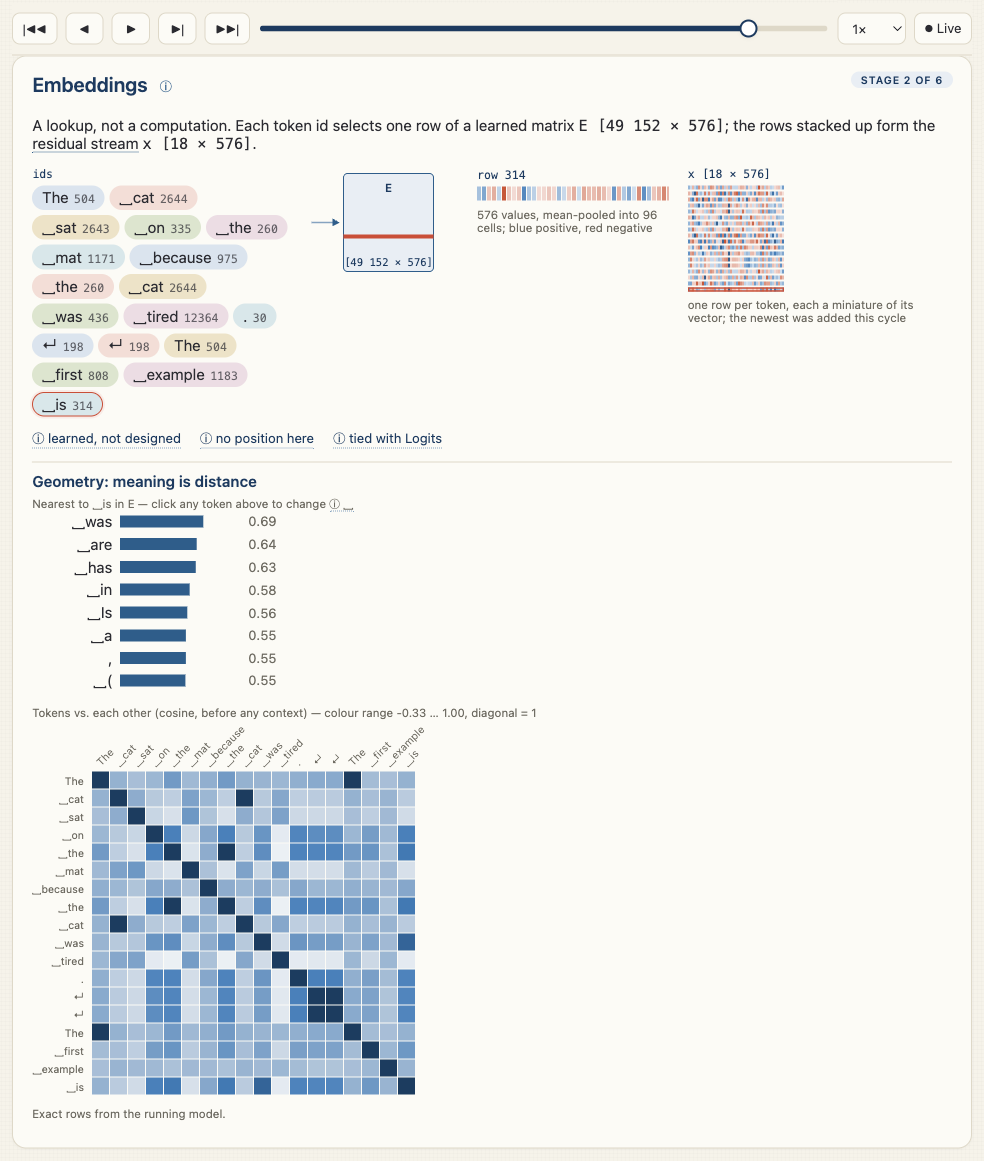
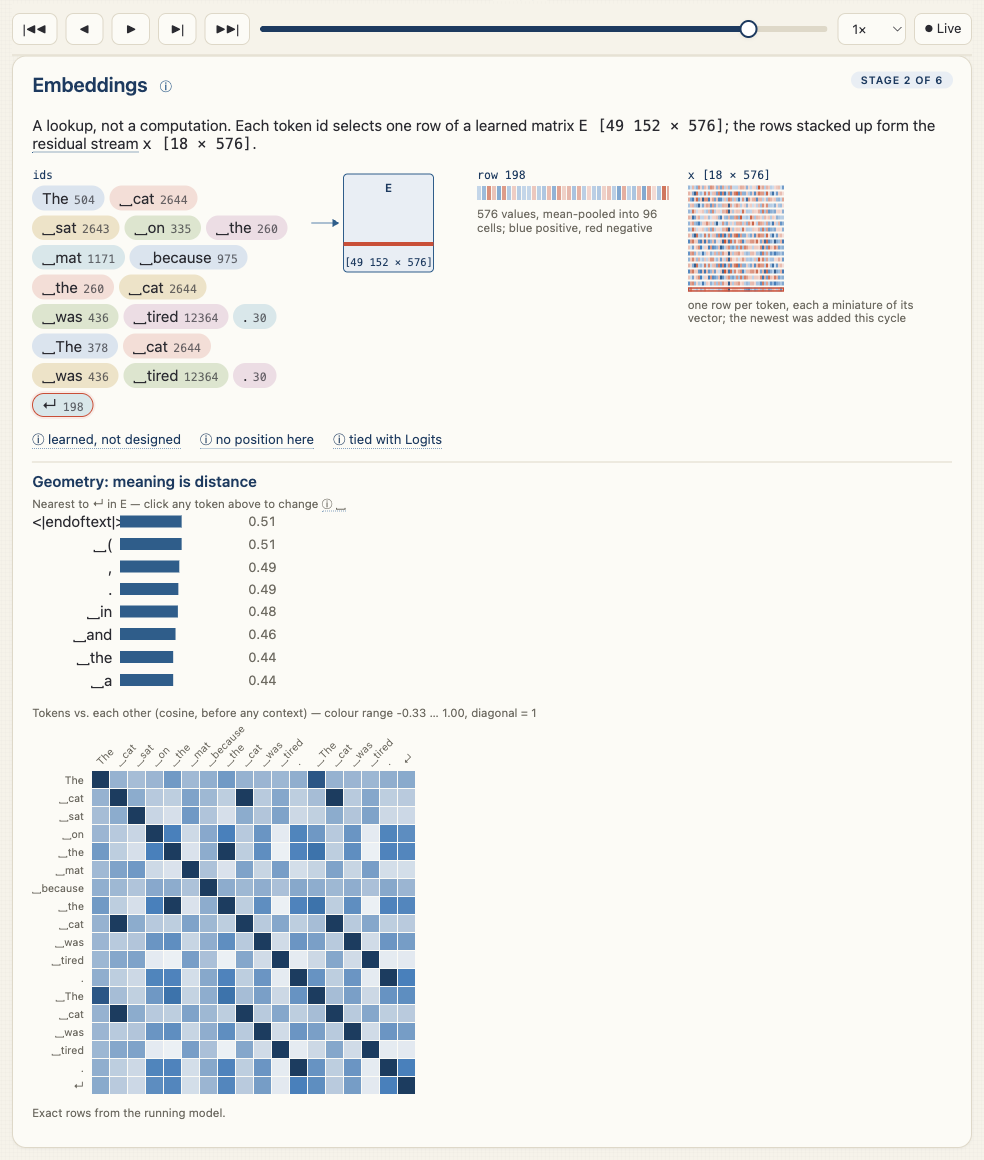
docs: regenerate README screenshots, add a dark one
The capture script now forces the light theme for every shot and takes
dark.png in its attention scene. The neighbours specimen is recreated;
the coreference specimen stays as it was.

diff --git a/README.md b/README.md
@@ -371,7 +371,9 @@ The app follows the computer's light or dark setting and changes with it. The
 ◐ ☀ ☾ button in the header, left of the help button, steps through Auto (follow the
 system), Light and Dark; the choice is kept in this browser. In the dark theme
 the charts read the other way round: low values fade into the card and high
-values are bright. The screenshots in this README are all light.
+values are bright. The other screenshots in this README are light.
+
+![The Layers detail in the dark theme: low attention weights fade into the card, high ones are bright](docs/screenshots/dark.png)
 
 ## Comparing runs
 
